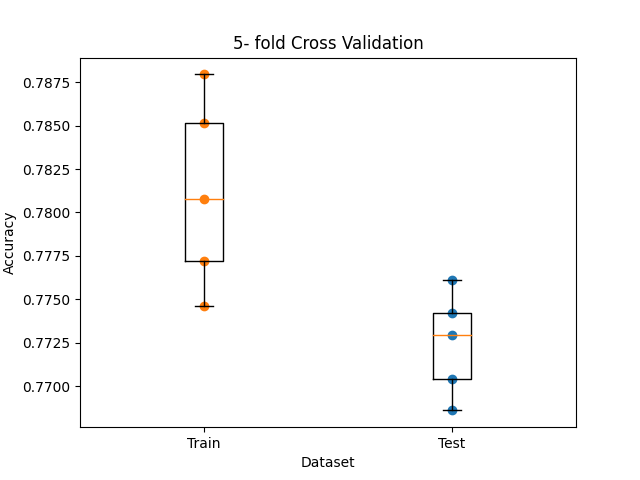
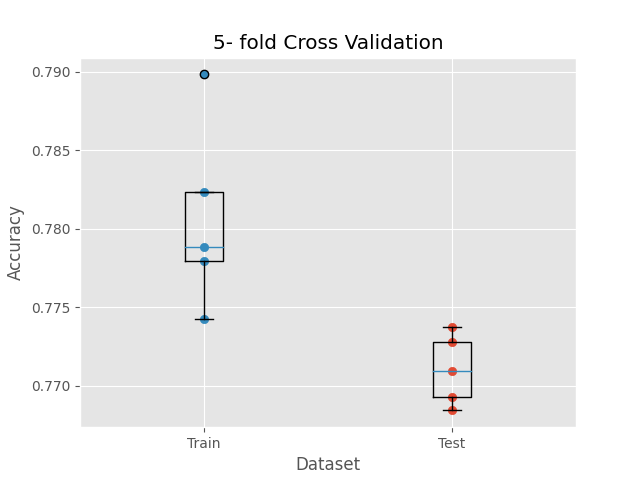
plots and tables

diff --git a/src/utils.py b/src/utils.py
@@ -10,6 +10,7 @@ import time
 import matplotlib.pyplot as plt
 import numpy as np
 
+plt.style.use('ggplot')
 
 def get_features(df):
     prev_mid_m_cols = ['c1', 'c2', 'c3', 'c4', 'c5']
@@ -173,3 +174,17 @@ def k_fold(model, X, Y, batch_size, epochs, history, splits=5):
     e = time.time()
 
     print(f"Time taken: {e-s:.1f}s")
+
+
+def results_to_file(results: dict, fp:str):
+    df = pd.DataFrame(results)
+    
+    column_format=f"|r||{'|'.join(['r']*(df.shape[1]-1))}|"
+
+    df.style.format(na_rep='-', precision=4).hide(axis="index").set_table_styles([
+    {'selector': 'toprule', 'props': ':hline;'},
+    {'selector': 'midrule', 'props': ':hline;'},
+    {'selector': 'bottomrule', 'props': ':hline;'},
+        ], overwrite=False).to_latex(fp, clines="all;data", hrules =False, column_format=column_format)
+    
+    return df

diff --git a/src/tables/eta_table.tex b/src/tables/eta_table.tex
@@ -1,7 +1,10 @@
-\begin{tabular}{rrr}
-eta & train & test \\
-0.0010 & 0.7675 & 0.7652 \\
-0.0030 & 0.7687 & 0.7681 \\
-0.0100 & 0.7652 & 0.7654 \\
-0.0500 & 0.5028 & 0.5022 \\
+\begin{tabular}{|r||r|r|}
+\hline
+Learning Ratee & Train Accuracy & Test Accuracy \\
+\hline
+0.001 & 0.7667 & 0.7642 \\
+0.003 & 0.7694 & 0.7681 \\
+0.01 & 0.7594 & 0.7562 \\
+0.05 & 0.5028 & 0.5022 \\
+\hline
 \end{tabular}

diff --git a/src/tables/batch_table.tex b/src/tables/batch_table.tex
@@ -1,7 +1,10 @@
-\begin{tabular}{rrr}
+\begin{tabular}{|r||r|r|}
+\hline
 Batch Size & Train Accuracy & Test Accuracy \\
-50 & 0.7689 & 0.7675 \\
-100 & 0.7682 & 0.7663 \\
-500 & 0.7620 & 0.7613 \\
-1000 & 0.7612 & 0.7588 \\
+\hline
+50 & 0.7694 & 0.7668 \\
+100 & 0.7690 & 0.7659 \\
+500 & 0.7623 & 0.7620 \\
+1000 & 0.7611 & 0.7608 \\
+\hline
 \end{tabular}

diff --git a/src/tables/epochs_table.tex b/src/tables/epochs_table.tex
@@ -1,6 +1,9 @@
-\begin{tabular}{rrr}
+\begin{tabular}{|r||r|r|}
+\hline
 Epochs & Train Accuracy & Test Accuracy \\
-5 & 0.7632 & 0.7647 \\
-10 & 0.7690 & 0.7661 \\
-20 & 0.7730 & 0.7706 \\
+\hline
+5 & 0.7625 & 0.7625 \\
+10 & 0.7665 & 0.7652 \\
+20 & 0.7713 & 0.7658 \\
+\hline
 \end{tabular}

diff --git a/src/tables/optimizer_table.tex b/src/tables/optimizer_table.tex
@@ -1,5 +1,8 @@
-\begin{tabular}{lrr}
+\begin{tabular}{|r||r|r|}
+\hline
 Optimizer & Train Accuracy & Test Accuracy \\
-Adam & 0.7673 & 0.7653 \\
-SGD & 0.7578 & 0.7597 \\
+\hline
+Adam & 0.7673 & 0.7638 \\
+SGD & 0.7577 & 0.7577 \\
+\hline
 \end{tabular}

diff --git a/src/tables/features_table.tex b/src/tables/features_table.tex
@@ -1,0 +1,8 @@
+\begin{tabular}{|r||r|r|}
+\hline
+Features & Train Accuracy & Test Accuracy \\
+\hline
+Base Features & 0.7596 & 0.7593 \\
+Engineered Features & 0.7627 & 0.7619 \\
+\hline
+\end{tabular}
